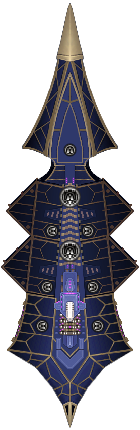
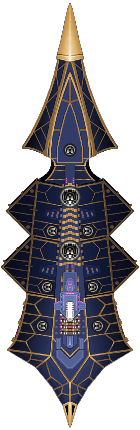
Add acheron, add chaos variants of styx and acheron.

diff --git a/src/mok_slyk/shpe/scripts/hullmods/Hellforged.java b/src/mok_slyk/shpe/scripts/hullmods/Hellforged.java
@@ -30,7 +30,9 @@ public class Hellforged extends BaseHullMod {
 
     @Override
     public void applyEffectsAfterShipCreation(ShipAPI ship, String id) {
+        /*
         if (ship.getVariant().hasHullMod("shpe_tzeentch_mark")) {
+
             SpriteAPI sprite;
             try {
                 sprite = Global.getSettings().getSprite("chaos_ships", "styx_tzeentch", false);
@@ -53,6 +55,49 @@ public class Hellforged extends BaseHullMod {
                 ship.getSpriteAPI().setAngle(angle);
                 ship.getSpriteAPI().setColor(color);
             }
+
         }
+         */
+
+        if (hasChaosMark(ship)) {
+            float x = ship.getSpriteAPI().getCenterX();
+            float y = ship.getSpriteAPI().getCenterY();
+            float alpha = ship.getSpriteAPI().getAlphaMult();
+            float angle = ship.getSpriteAPI().getAngle();
+            Color color = ship.getSpriteAPI().getColor();
+
+            String override = null;
+            if (ship.getVariant().hasHullMod("shpe_tzeentch_mark")) {
+                if (ship.getHullSpec().getBaseHullId().equals("shpe_styx")) override = "styx_tzeentch";
+                if (ship.getHullSpec().getBaseHullId().equals("shpe_acheron")) override = "acheron_tzeentch";
+            }
+            if (ship.getVariant().hasHullMod("shpe_khorne_mark")) {
+                if (ship.getHullSpec().getBaseHullId().equals("shpe_styx")) override = "styx_khorne";
+                if (ship.getHullSpec().getBaseHullId().equals("shpe_acheron")) override = "acheron_khorne";
+            }
+            if (ship.getVariant().hasHullMod("shpe_slaanesh_mark")) {
+                if (ship.getHullSpec().getBaseHullId().equals("shpe_styx")) override = "styx_slaanesh";
+                if (ship.getHullSpec().getBaseHullId().equals("shpe_acheron")) override = "acheron_slaanesh";
+            }
+            if (ship.getVariant().hasHullMod("shpe_nurgle_mark")) {
+                if (ship.getHullSpec().getBaseHullId().equals("shpe_styx")) override = "styx_nurgle";
+                if (ship.getHullSpec().getBaseHullId().equals("shpe_acheron")) override = "acheron_nurgle";
+            }
+
+            if (override != null) {
+                ship.setSprite("chaos_ships", override);
+                ShaderLib.overrideShipTexture(ship, override);
+            }
+            ship.getSpriteAPI().setCenter(x, y);
+            ship.getSpriteAPI().setAlphaMult(alpha);
+            ship.getSpriteAPI().setAngle(angle);
+            ship.getSpriteAPI().setColor(color);
+        }
+
+    }
+
+    private boolean hasChaosMark(ShipAPI ship) {
+        return ship.getVariant().hasHullMod("shpe_tzeentch_mark") || ship.getVariant().hasHullMod("shpe_khorne_mark")
+                || ship.getVariant().hasHullMod("shpe_slaanesh_mark") || ship.getVariant().hasHullMod("shpe_nurgle_mark");
     }
 }

diff --git a/src/mok_slyk/shpe/scripts/shipsystems/HolofieldStats.java b/src/mok_slyk/shpe/scripts/shipsystems/HolofieldStats.java
@@ -21,7 +21,8 @@ public class HolofieldStats extends BaseShipSystemScript {
     public static Color HOLO_COLOR = new Color(155, 135, 255, 200);
     public static float HOLO_RANGE = 30f;
     public static float HOLO_DRIFT = 10f;
-    public static float INVULN_PERCENTAGE = 0.6f;
+    //public static float INVULN_PERCENTAGE = 0.6f;
+    public static float INVULN_PERCENTAGE = 1f;
 
     private Vector2f[] imageOffsets = null;
     private IntervalUtil invulnInterval = new IntervalUtil(0.3f, 1f);

diff --git a/src/mok_slyk/shpe/scripts/hullmods/SlaaneshMark.java b/src/mok_slyk/shpe/scripts/hullmods/SlaaneshMark.java
@@ -1,0 +1,12 @@
+package mok_slyk.shpe.scripts.hullmods;
+
+import com.fs.starfarer.api.combat.BaseHullMod;
+import com.fs.starfarer.api.combat.ShipAPI;
+
+public class SlaaneshMark extends BaseHullMod {
+    @Override
+    public void applyEffectsAfterShipCreation(ShipAPI ship, String id) {
+        super.applyEffectsAfterShipCreation(ship, id);
+    }
+
+}

diff --git a/src/mok_slyk/shpe/scripts/hullmods/NurgleMark.java b/src/mok_slyk/shpe/scripts/hullmods/NurgleMark.java
@@ -1,0 +1,6 @@
+package mok_slyk.shpe.scripts.hullmods;
+
+import com.fs.starfarer.api.combat.BaseHullMod;
+
+public class NurgleMark extends BaseHullMod {
+}
